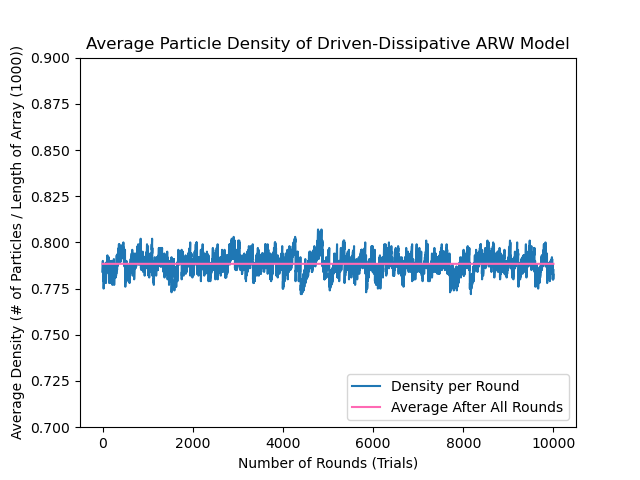
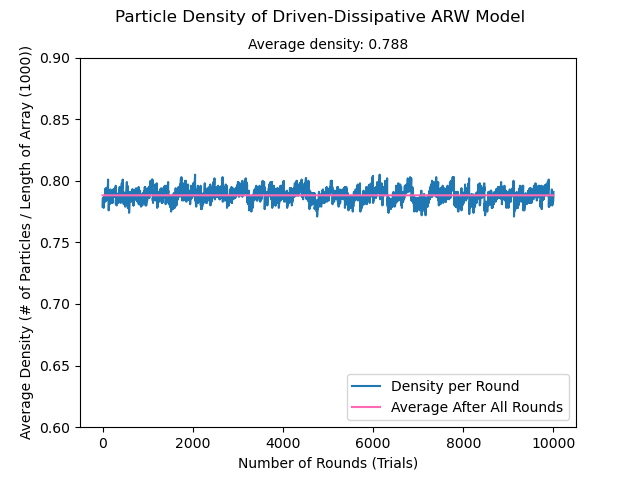
update graphs

diff --git a/arw_driven_dissipative.py b/arw_driven_dissipative.py
@@ -72,9 +72,9 @@ def runRound(arr, addIndex, lenArr, rate):
 
 
 if __name__ == "__main__":
-    arr = setUp(100)
+    arr = setUp(1000)
     avgDens = []
-    for i in range(100):
+    for i in range(10000):
         avgDens.append(runRound(arr, 50, len(arr), 0.5))
 
 
@@ -83,10 +83,11 @@ if __name__ == "__main__":
     plt.ylim(0.6, 0.9)
     plt.xlabel("Number of Rounds (Trials)")
     plt.ylabel(f"Average Density (# of Particles / Length of Array ({len(arr)}))")
-    plt.title("Average Particle Density of Driven-Dissipative ARW Model")
+    plt.suptitle("Particle Density of Driven-Dissipative ARW Model")
+    plt.title(f"Average density: {np.round(np.mean(np.array(avgDens), axis = 0), 3)}", size = 10)
     plt.legend(["Density per Round", "Average After All Rounds"], loc="lower right")
     plt.show()
-    print(f"Average (of all averages) density: {np.mean(np.array(avgDens), axis = 0)}")
+    print(f"Average density: {np.mean(np.array(avgDens), axis = 0)}")
 
 
 
